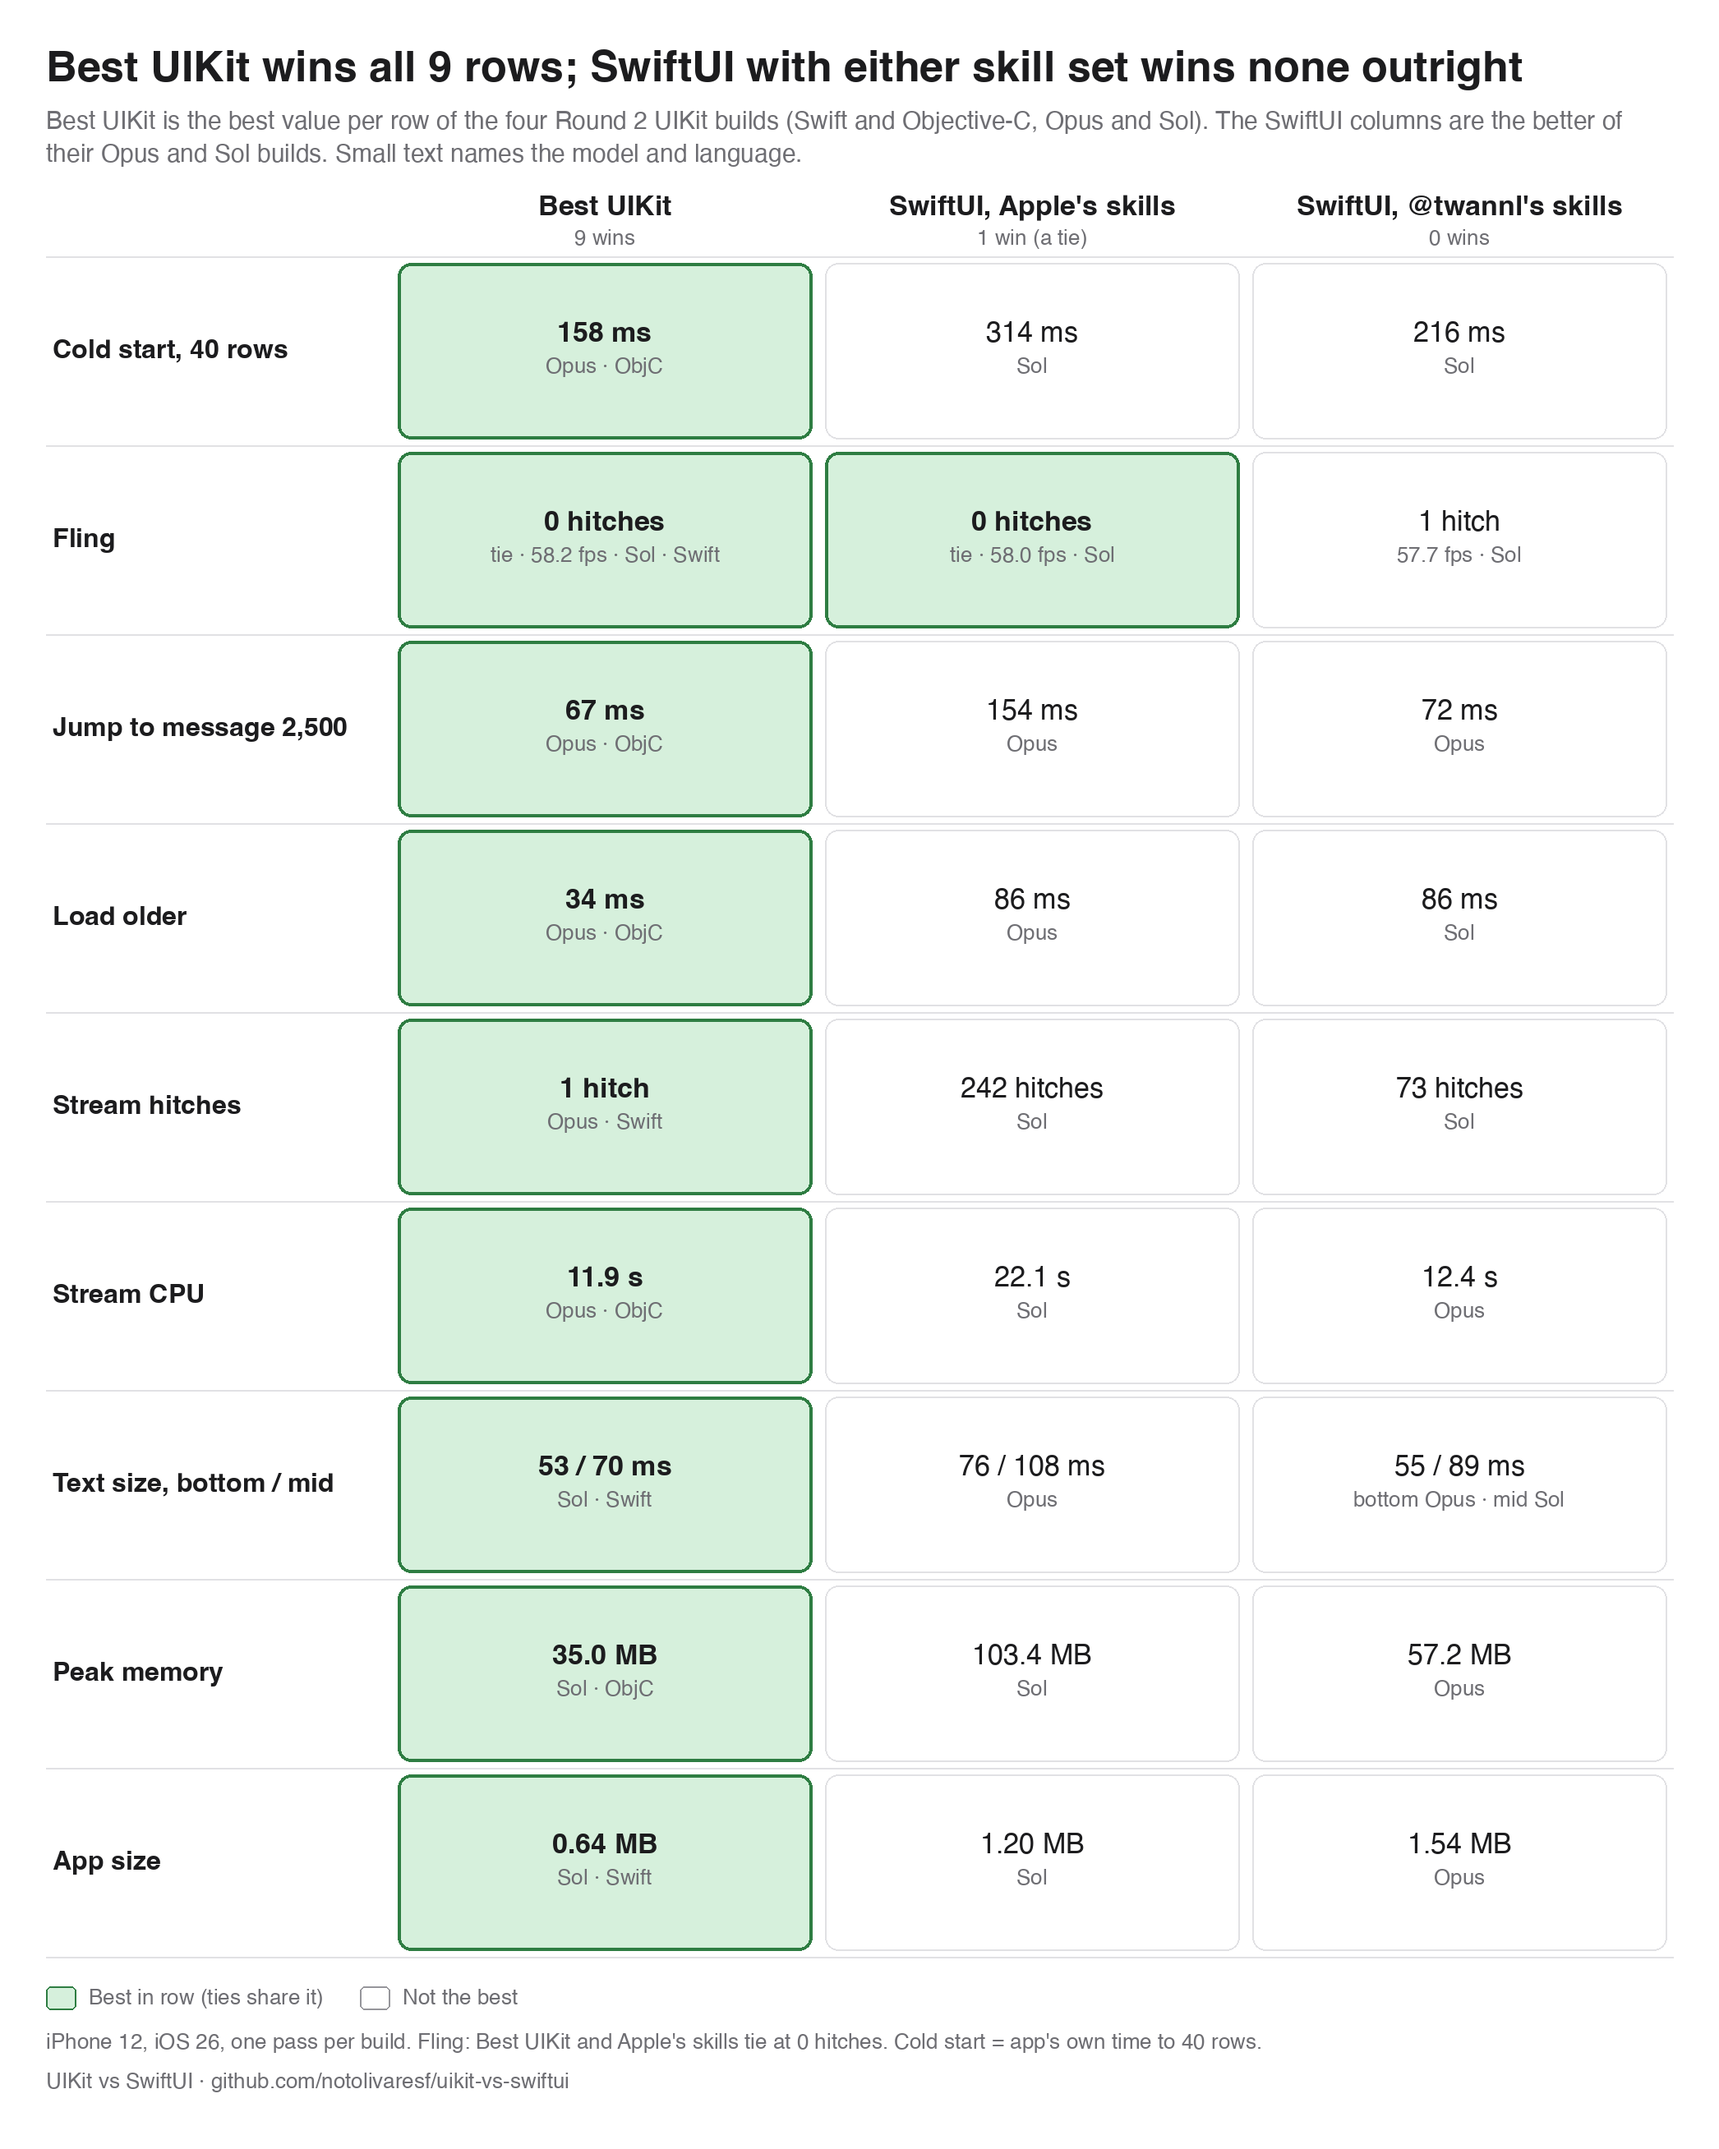
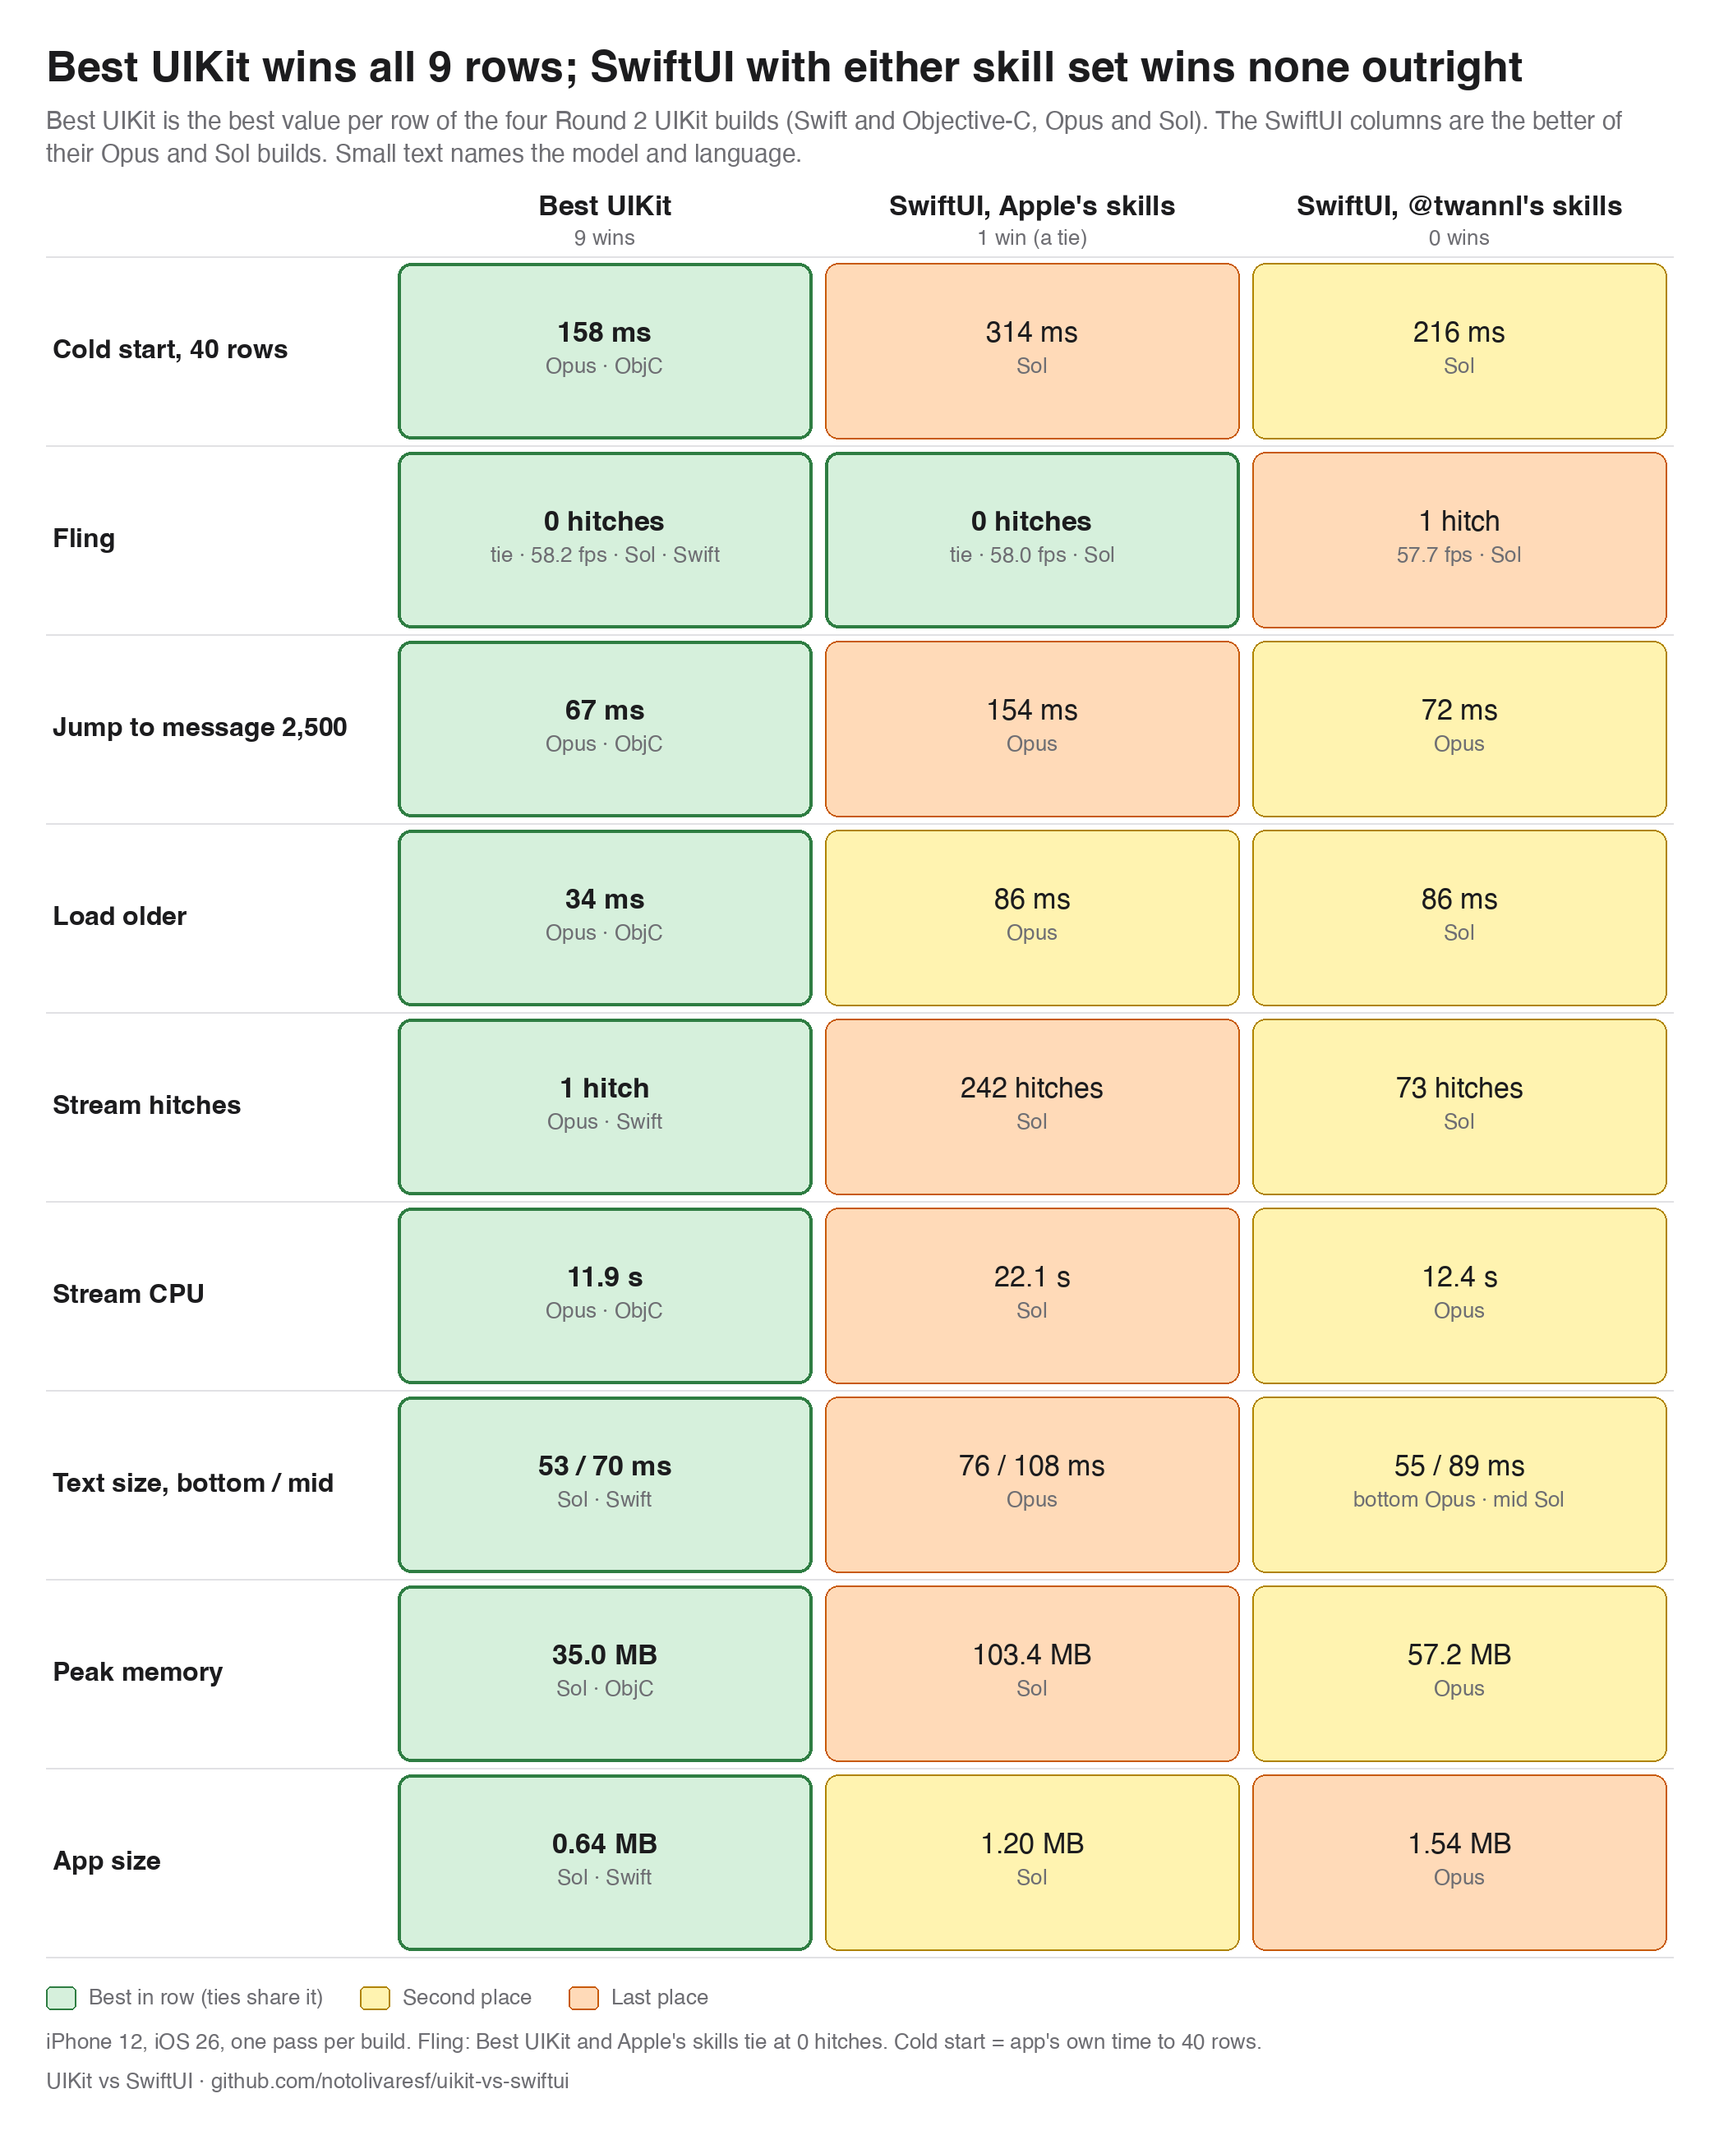
Best UIKit chart: yellow for second place, orange for last

diff --git a/Harness/tools/results_table.py b/Harness/tools/results_table.py
@@ -45,10 +45,12 @@ THEMES = {
     "light": dict(bg=(255, 255, 255), text=(28, 28, 30), muted=(110, 110, 115), line=(225, 225, 228),
                   ok=((214, 240, 220), (46, 125, 66)), bad=((250, 214, 214), (176, 46, 46)),
                   warn=((253, 240, 196), (160, 118, 10)), none=((255, 255, 255), (150, 150, 155)),
+                  second=((255, 243, 176), (176, 132, 0)), last=((255, 218, 184), (200, 90, 10)),
                   head=(243, 243, 246)),
     "dark": dict(bg=(24, 24, 27), text=(240, 240, 243), muted=(160, 160, 168), line=(58, 58, 64),
                  ok=((30, 70, 42), (110, 200, 135)), bad=((84, 34, 34), (240, 130, 130)),
                  warn=((82, 68, 22), (235, 195, 85)), none=((24, 24, 27), (120, 120, 128)),
+                 second=((88, 74, 18), (240, 205, 70)), last=((100, 52, 16), (245, 150, 70)),
                  head=(38, 38, 43)),
 }
 
@@ -448,7 +450,10 @@ def uk_rows():
         idx = [i for i, c in enumerate(cells) if c[0] == best]
         for i in idx:
             wins[i] += 1
-        rows.append((label, [("ok" if i in idx else "none", m.rstrip(" *"), ("tie \u00b7 " + sb) if i in idx and len(idx) > 1 else sb, i in idx)
+        # competition ranking (ties share a rank): 1 green, 2 yellow, 3 orange
+        rank = [1 + sum(1 for o in cells if o[0] < c[0]) for c in cells]
+        st = {1: "ok", 2: "second", 3: "last"}
+        rows.append((label, [(st[rank[i]], m.rstrip(" *"), ("tie \u00b7 " + sb) if i in idx and len(idx) > 1 else sb, i in idx)
                              for i, (k, m, sb) in enumerate(cells)]))
     return rows, wins
 
@@ -460,7 +465,7 @@ UKSW = dict(title="Best UIKit wins all 9 rows; SwiftUI with either skill set win
             builds=[("Best UIKit", "%d wins" % UK_WINS[0]), ("SwiftUI, Apple's skills", "%d win (a tie)" % UK_WINS[1]),
                     ("SwiftUI, @twannl's skills", "%d wins" % UK_WINS[2])],
             rows=_UK_ROWS, col_w=260, label_w=210, file="results-uikit-vs-swiftui-skills", groups=None, aspect=4 / 5,
-            legend=SW3["legend"],
+            legend=[("ok", "Best in row (ties share it)"), ("second", "Second place"), ("last", "Last place")],
             note="iPhone 12, iOS 26, one pass per build. Fling: Best UIKit and Apple's skills tie at 0 hitches. Cold start = app's own time to 40 rows.",
             footer=SW3["footer"])
 
@@ -647,6 +652,8 @@ def render(name, spec=None):
                 d.rounded_rectangle(r, 8 * S, outline=fg, width=2 * S)
             elif state == "none":
                 d.rounded_rectangle(r, 8 * S, outline=th["line"], width=S)
+            elif state in ("second", "last"):
+                d.rounded_rectangle(r, 8 * S, outline=fg, width=S)
             cx = cx0 + (COL_W - 8) / 2
             mf = font(17, best)
             lines = wrap(d, main, mf, COL_W - 28)
